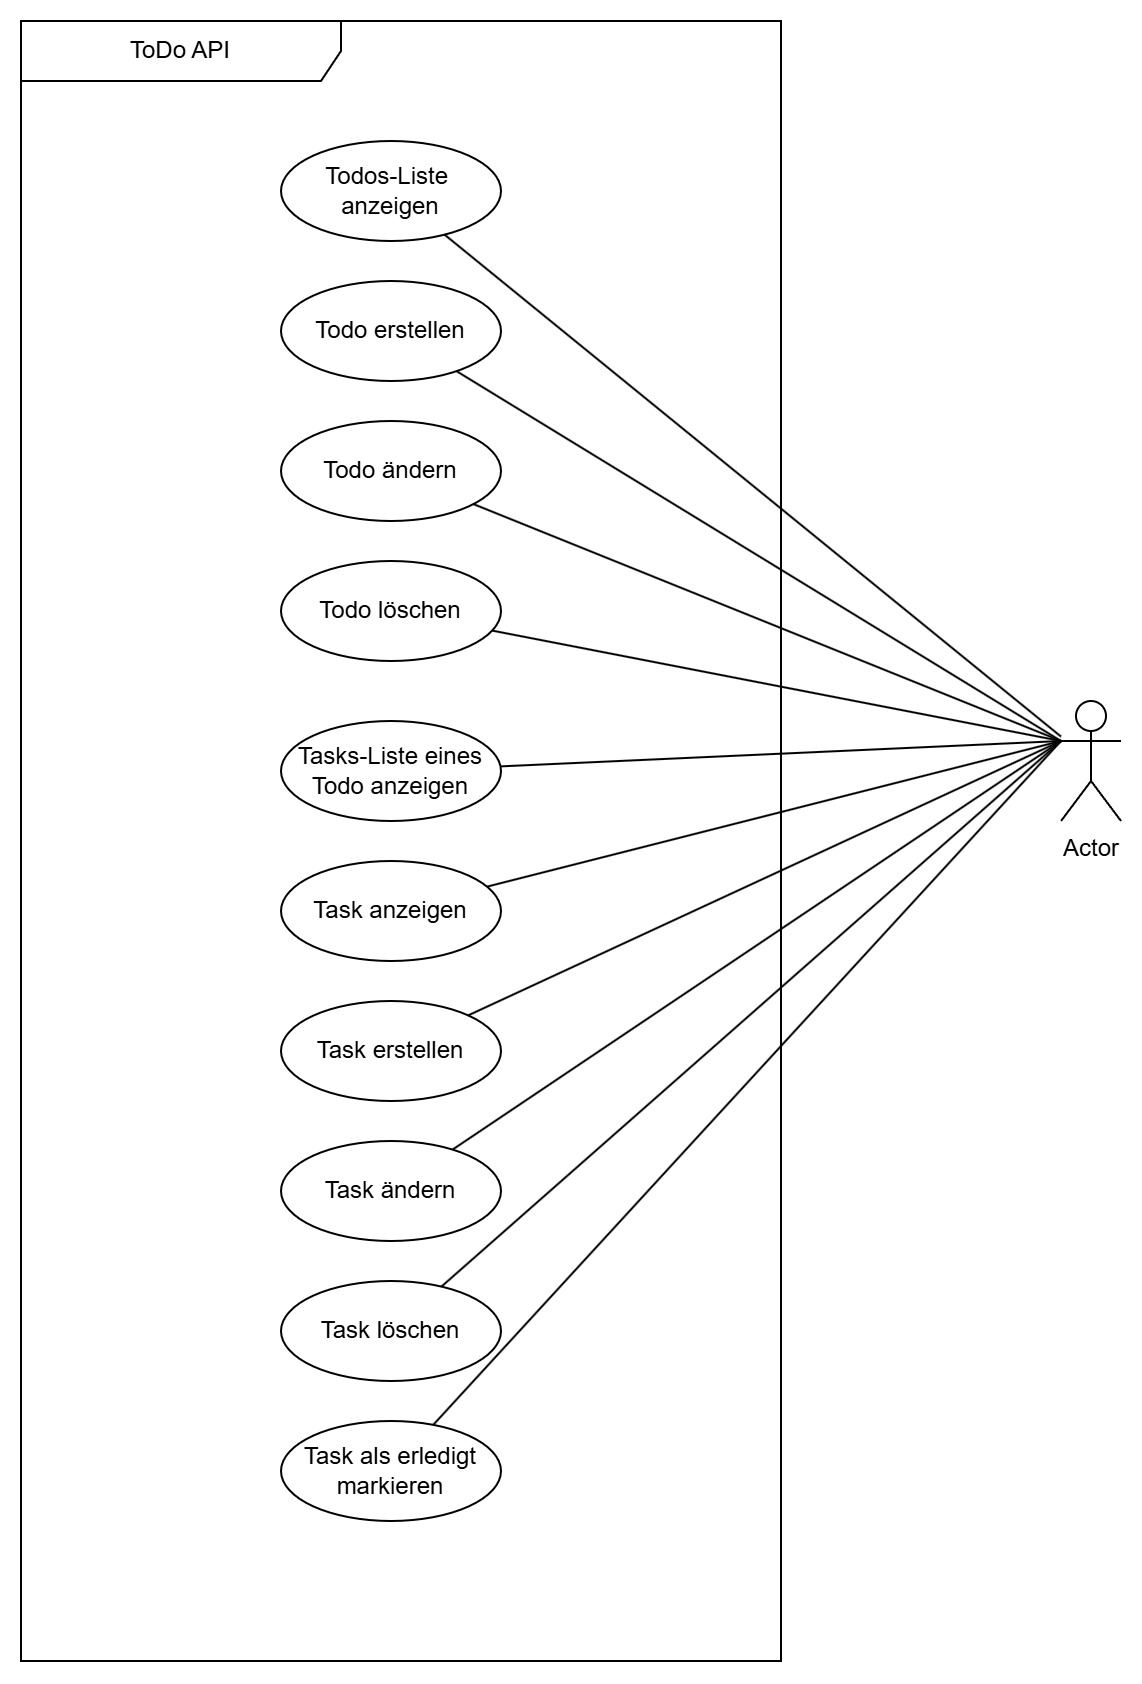
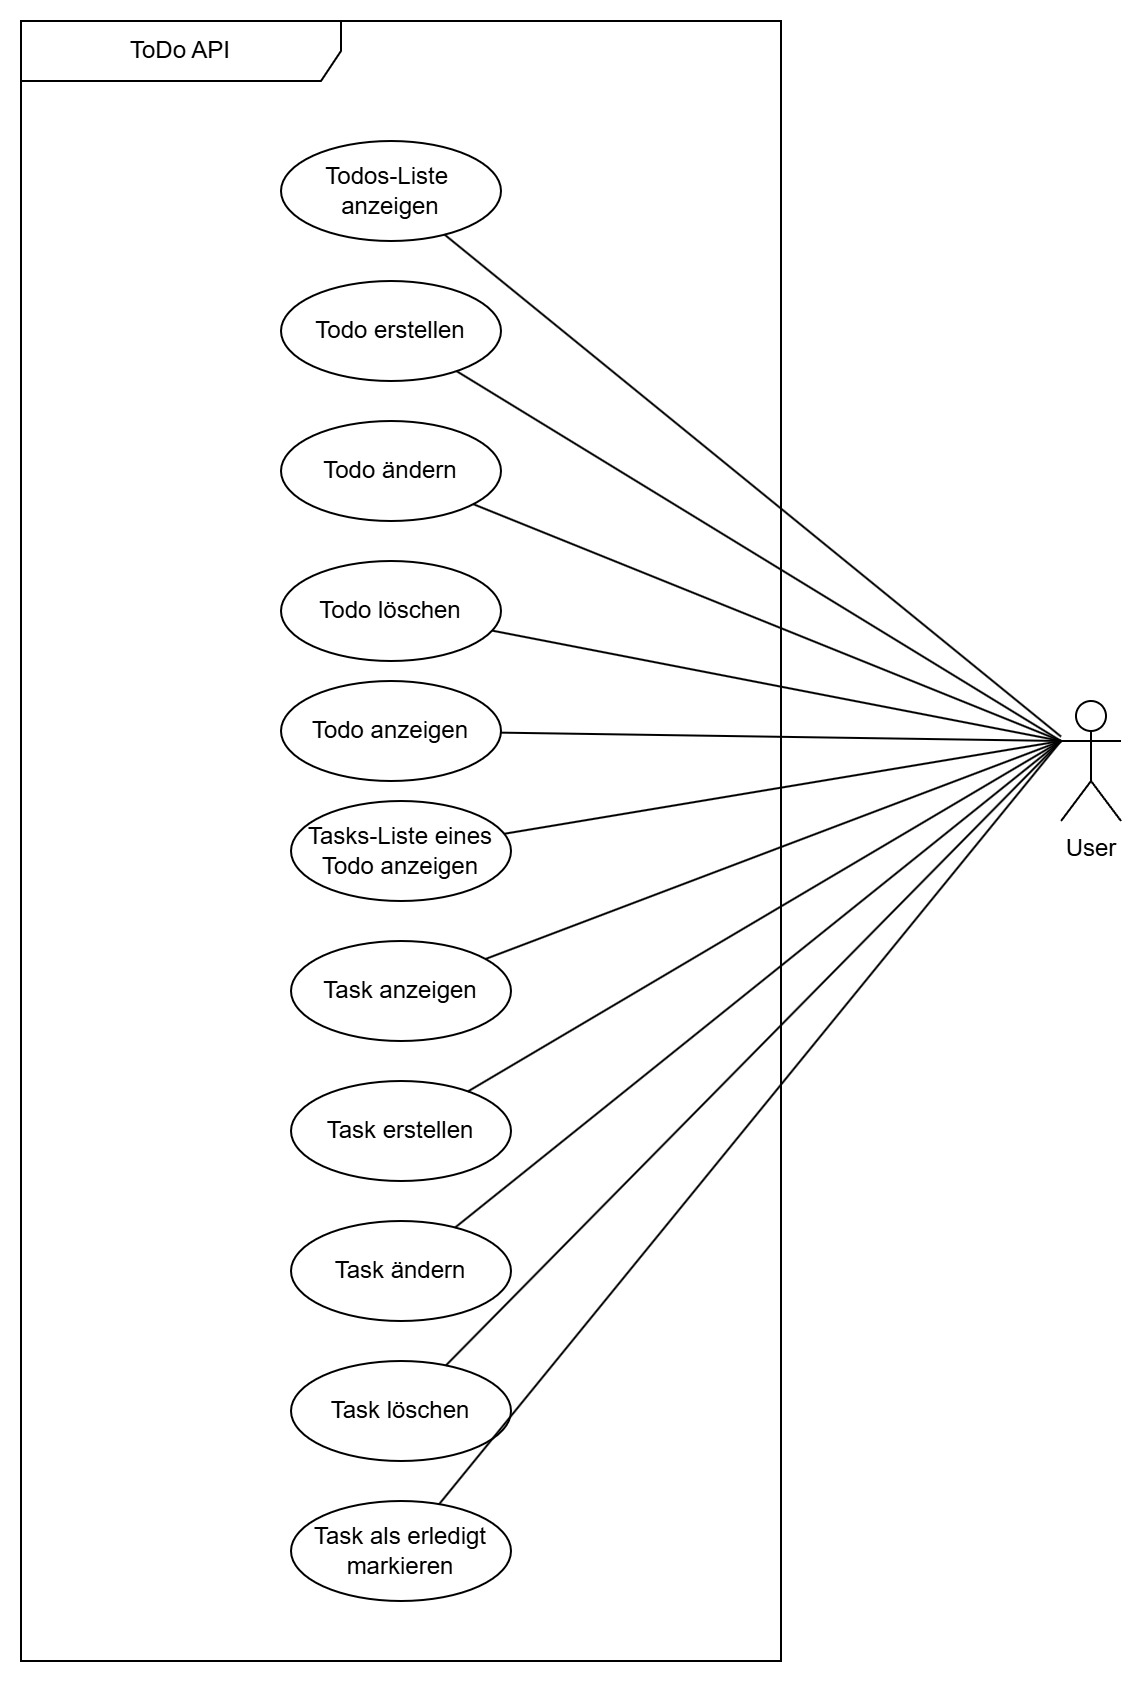
update

diff --git a/create_database.py b/create_database.py
@@ -1,0 +1,43 @@
+
+
+import sqlite3
+
+
+DATABASE = "todo.db"
+
+def create_database():
+    connection = sqlite3.connect(DATABASE)
+    connection.execute("PRAGMA foreign_keys = ON")
+
+    cursor = connection.cursor()
+    cursor.execute("""
+        CREATE TABLE IF NOT EXISTS todos (
+            todo_id INTEGER PRIMARY KEY AUTOINCREMENT,
+            todo_title TEXT NOT NULL,
+            todo_description TEXT NOT NULL DEFAULT '',
+            todo_created_at TEXT DEFAULT (datetime('now', 'localtime'))
+        )
+    """)
+
+    cursor.execute("""
+        CREATE TABLE tasks (
+            task_id INTEGER PRIMARY KEY AUTOINCREMENT,
+            todo_id INTEGER NOT NULL,
+            task_title TEXT NOT NULL,
+            task_description TEXT NOT NULL DEFAULT '',
+            task_status TEXT NOT NULL DEFAULT 'open' CHECK(task_status IN ('open', 'in_progress', 'done')),
+            task_priority TEXT NOT NULL DEFAULT 'medium' CHECK(task_priority IN ('low', 'medium', 'high')),
+            task_created_at TEXT DEFAULT (datetime('now', 'localtime')),
+            task_due_date TEXT ,
+            FOREIGN KEY (todo_id) REFERENCES todos(todo_id) ON DELETE CASCADE
+        )
+    """)
+
+    connection.commit()
+    connection.close()
+    print("Datenbank wurde erfolgreich erstellt.")
+
+
+if __name__ == "__main__":
+    create_database()
+

diff --git a/docs/aufgabenstellung.md b/docs/aufgabenstellung.md
@@ -85,7 +85,19 @@ Erstellen Sie ein Use-Case-Diagramm.
 
 Mindestens folgende Anwendungsfälle sollen dargestellt werden:
 
-XXXXX HIER die Anwendungsfälle beschreiben XXXX
+* Todos-Liste anzeigen
+* Todo erstellen
+* Todo ändern
+* Todo löschen
+* Todo anzeigen
+
+
+* Tasks-Liste eines Todo anzeigen
+* Task erstellen
+* Task anzeigen
+* Task ändern
+* Task löschen
+* Task als erledigt markieren
 
 ### 4.2 UML-Klassendiagramm
 
@@ -113,5 +125,22 @@ Erstellen Sie ein Datenbankmodell für SQLite.
   - todo_title
   - ...
 
+
+## 6. Datenbank-Erstellung
+
+Erstellen Sie ein Python-Skript, das eine leere SQLite-Datenbank erzeugt.
+
+Das Skript soll:
+
+1. die SQLite-Datenbank anlegen,
+2. die Tabelle `todos` erstellen,
+3. die Tabelle `tasks` erstellen,
+4. Primärschlüssel definieren,
+5. Fremdschlüssel definieren,
+6. notwendige Constraints definieren.
+
+```text
+create_database.py
+```
 
 

diff --git a/README.md b/README.md
@@ -1,5 +1,15 @@
 # ToDo API Projekt
 
+**Repository** 
+
+`https://github.com/teses/python_cc_fsm2_kw28_todoapi`
+
+# Module
+
+```
+pip install fastapi uvicorn pydantic pysqlite3
+```
+
 
 # API Starten
 
